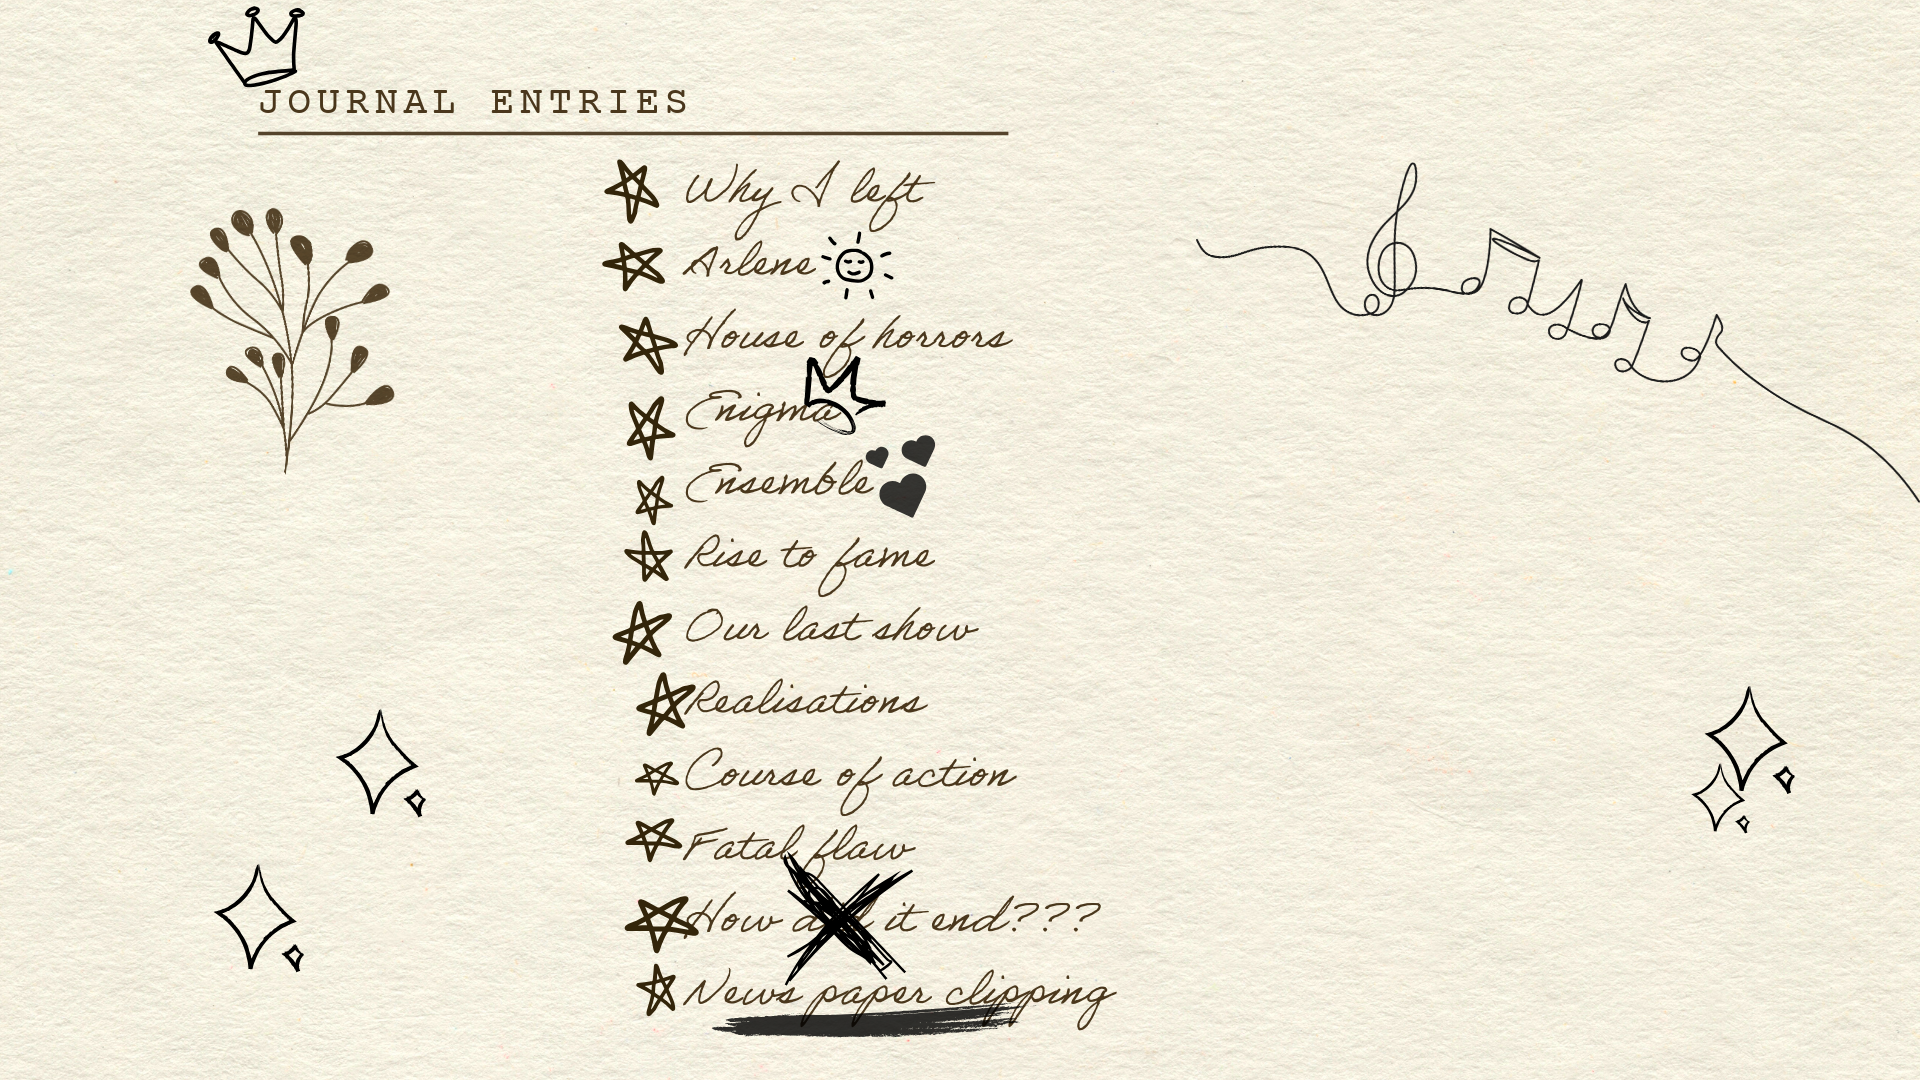
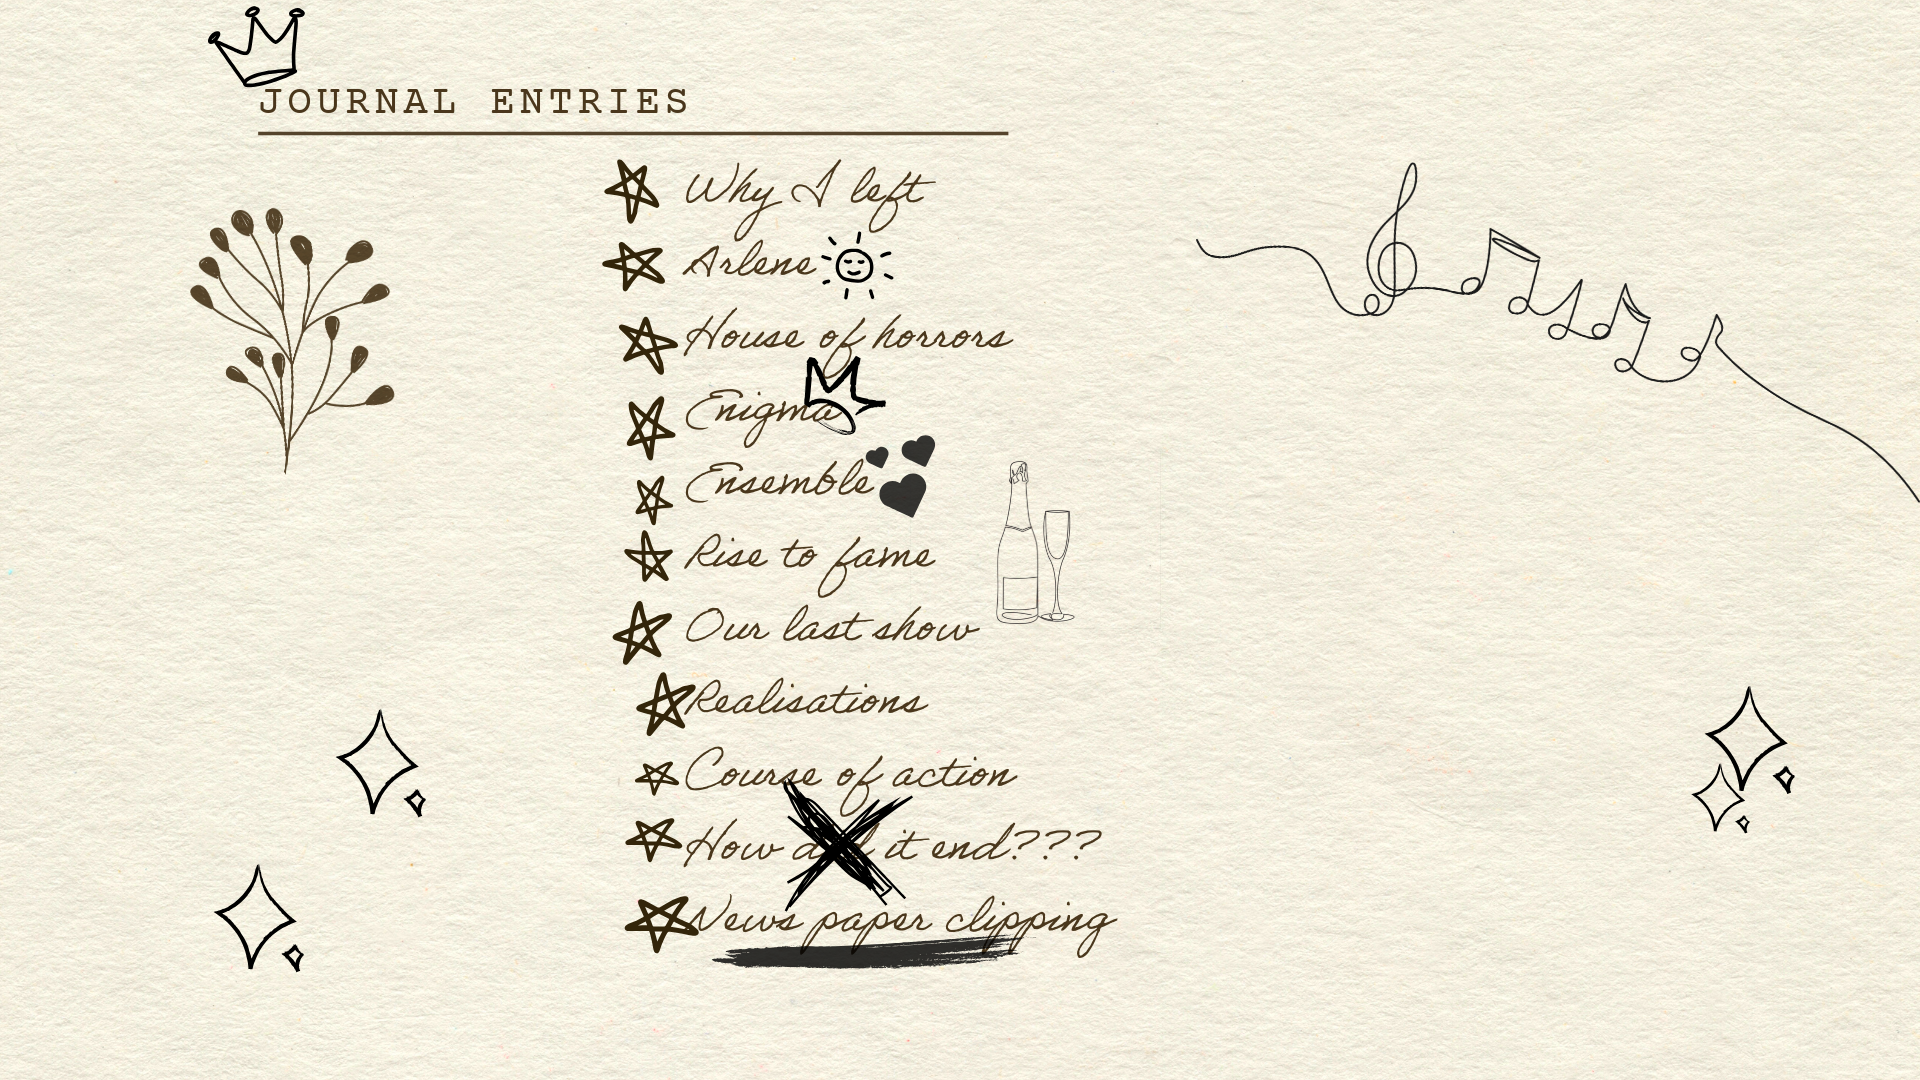
bnb

diff --git a/index.html b/index.html
@@ -503,11 +503,32 @@ tw-hook {
 
 // Harlowe Macro Framework, by Chapel; version 1.0.2
 ;!function(){"use strict";var r={major:1,minor:0,patch:2},e=[r.major,r.minor,r.patch].join(".");r.semantic=e,r=Object.freeze(r);var t=$("tw-storydata"),a=Object.freeze({name:t.attr("name"),ifid:t.attr("ifid")}),n=t.attr("format-version"),o=n.split("."),i=Object.freeze({major:o[0],minor:o[1],patch:o[2],semantic:n});window.Harlowe=window.Harlowe||{},window.Harlowe=Object.assign(window.Harlowe,{framework:r,API_ACCESS:Object.freeze({MACROS:require("macros"),STATE:require("state"),CHANGER:require("datatypes/changercommand"),ENGINE:require("engine")}),engine:i,story:a})}(),function(){"use strict";function e(r){return"number"==typeof r||"boolean"==typeof r||"string"==typeof r||null===r||Array.isArray(r)&&r.every(e)||r instanceof Set&&Array.from(r).every(e)||r instanceof Map&&Array.from(r.values()).every(e)||_changer.isPrototypeOf(r)}window.Harlowe=Object.assign(window.Harlowe,{helpers:{isSerialisable:e,isSerializable:e,arrayify:function(r,e){if(r){var t=[].slice.call(r);return void 0!==e&&(t=t.slice(e)),t}},getPassageData:function(r){var e=$('tw-passagedata[name="'+r+'"]');if(e[0])return e}}})}(),function(){"use strict";var n=window.localStorage||!1,o=Harlowe.story.ifid+"-tw-storage";function r(){try{if(!n)throw new Error("storage is inaccessible");n.setItem(o,JSON.stringify({ifid:Harlowe.story.ifid}))}catch(r){console.warn(r)}}function i(r){try{var e;if(n)return e=JSON.parse(n.getItem(o)),r&&r&&"string"==typeof r?e[r]:e;throw new Error("storage is inaccessible")}catch(r){console.warn(r)}}null==i()&&r(),Harlowe.storage={clear:r,save:function(r,e){try{if(!r||"string"!=typeof r)throw new TypeError("cannot store values without a valid storage key");if(void 0===e)throw new TypeError("cannot store undefined values");var t={};if(t[r]=e,!n)throw new Error("storage is inaccessible");var a=i();Object.assign(a,t),n.setItem(o,JSON.stringify(a))}catch(r){console.warn(r)}},load:i,remove:function(r){try{if(!r||"string"!=typeof r)throw new TypeError("cannot store values without a valid storage key");if(!n)throw new Error("storage is inaccessible");var e=i();e.hasOwnProperty(r)&&(delete e[r],n.setItem(o,JSON.stringify(e)))}catch(r){console.warn(r)}}}}(),function(){"use strict";function a(r,e,t){if(!(this instanceof a))return new a(r,e,t);this.name=r||"unknown",this.args=e||[],this.data=t||{},this.type=t&&t.type||"basic",this.fn=t&&t.fn||"handler","changer"===this.type&&("handler"===this.fn?this.instance=t&&t.instance||null:this.descriptor=t&&t.descriptor||null)}a.create=function(r,e,t){if(!r||"string"!=typeof r||!r.trim())throw new TypeError("Invalid macro name.");return e&&e instanceof Array||(e=[]),t&&"object"==typeof t||(t={type:"basic",fn:"handler"}),new a(r,e,t)},Object.assign(a.prototype,{clone:function(){return a.create(this.name,this.args,this.data)},syntax:function(){return"("+this.name+":)"},error:function(r,e){var t="Error in the "+this.syntax()+" macro: "+r;return e&&alert(t),console.warn("HARLOWE CUSTOM MACRO ERROR -> ",t),new Error(r)},typeCheck:function(r){r&&r instanceof Array||(r=Harlowe.helpers.arrayify(arguments));var n=this,o=[];if(r.forEach(function(r,e){var t=e+1,a=[];"string"==typeof r&&("any"===(a=r.includes("|")?r.split("|").map(function(r){return r.trim().toLowerCase()}):[r.trim().toLowerCase()])[0]||a.some(function(r){return typeof n.args[e]===r})||o.push("argument "+t+" should be a(n) "+a.join(" or ")))}),o.length)return n.error(o.join("; "))}}),window.Harlowe=Object.assign(window.Harlowe,{MacroContext:a})}(),function(){"use strict";var c=Harlowe.API_ACCESS.MACROS,l=Harlowe.API_ACCESS.CHANGER;window.Harlowe=Object.assign(window.Harlowe||{},{macro:function(r,e,t){if(!r||"string"!=typeof r||!r.trim())throw new TypeError("Invalid macro name.");if(!e||"function"!=typeof e)throw new TypeError("Invalid macro handler.");var a,n,o,i,s;t&&"function"==typeof t?(o=r,i=e,s=t,c.addChanger(o,function(){var r=Harlowe.helpers.arrayify(arguments,1),e=l.create(o,r),t=Harlowe.MacroContext.create(o,r,{type:"changer",fn:"handler",instance:e});return i.apply(t,r),e},function(){var r=Harlowe.helpers.arrayify(arguments),e=r.shift(),t=Harlowe.MacroContext.create(o,r,{type:"changer",fn:"changer",descriptor:e});s.apply(t,r)},c.TypeSignature.zeroOrMore(c.TypeSignature.Any))):(a=r,n=e,c.add(a,function(){var r=Harlowe.helpers.arrayify(arguments,1),e=Harlowe.MacroContext.create(a,r,{type:"basic",fn:"handler"}),t=n.apply(e,r);return null==t?"":t},c.TypeSignature.zeroOrMore(c.TypeSignature.Any)))}})}(),function(){"use strict";var t=Harlowe.API_ACCESS.STATE,e=Harlowe.API_ACCESS.ENGINE;function a(){return t.passage}window.Harlowe=Object.assign(window.Harlowe||{},{passage:a,tags:function(r){r=r||a();try{var e=Harlowe.helpers.getPassageData(r).attr("tags");return e?e.split(" "):[]}catch(r){return console.warn(r.message),[]}},goto:function(r){return e.goToPassage(r)},variable:function(r,e){if("$"!==r[0])throw new Error('cannot access variable "'+r+'"');if(r=r.substr(1),void 0!==e){if(!Harlowe.helpers.isSerialisable(e))throw new Error('The value passed to variable "'+r+'" cannot be serialized.');t.variables[r]=e}return t.variables[r]},visited:function(r){return t.passageNameVisited(r||a())},hasVisited:function(r){return 0<t.passageNameVisited(r||a())},turns:function(){return t.pastLength}})}();
-// end Harlowe Macro Framework</script><tw-tag name="background1" color="green"></tw-tag><tw-tag name="background10" color="orange"></tw-tag><tw-tag name="background12" color="orange"></tw-tag><tw-tag name="background13" color="red"></tw-tag><tw-tag name="background14" color="orange"></tw-tag><tw-tag name="background15" color="orange"></tw-tag><tw-tag name="background3" color="orange"></tw-tag><tw-tag name="background2" color="orange"></tw-tag><tw-tag name="background7" color="orange"></tw-tag><tw-tag name="background5" color="orange"></tw-tag><tw-tag name="background6" color="orange"></tw-tag><tw-tag name="needs-picture" color="purple"></tw-tag><tw-tag name="needs-picture-2" color="purple"></tw-tag><tw-tag name="needs-picture-3" color="purple"></tw-tag><tw-tag name="needs-picture-4" color="purple"></tw-tag><tw-tag name="needs-pictures-13" color="purple"></tw-tag><tw-tag name="needs-pictures-14" color="purple"></tw-tag><tw-tag name="background8" color="orange"></tw-tag><tw-tag name="background11" color="orange"></tw-tag><tw-tag name="background16" color="green"></tw-tag><tw-tag name="background17" color="orange"></tw-tag><tw-tag name="background18" color="orange"></tw-tag><tw-tag name="begin" color="green"></tw-tag><tw-tag name="firstpage" color="orange"></tw-tag><tw-tag name="background19" color="orange"></tw-tag><tw-tag name="background20" color="orange"></tw-tag><tw-tag name="background21" color="orange"></tw-tag><tw-tag name="spotlight" color="orange"></tw-tag><tw-tag name="background22" color="orange"></tw-tag><tw-tag name="background23" color="red"></tw-tag><tw-tag name="background24" color="orange"></tw-tag><tw-tag name="background25" color="orange"></tw-tag><tw-tag name="background4" color="orange"></tw-tag><tw-passagedata pid="1" name="back to entries" tags="background4 imagemap" position="600,300" size="100,100">
+// end Harlowe Macro Framework</script><tw-tag name="background1" color="green"></tw-tag><tw-tag name="background10" color="orange"></tw-tag><tw-tag name="background12" color="orange"></tw-tag><tw-tag name="background13" color="red"></tw-tag><tw-tag name="background14" color="orange"></tw-tag><tw-tag name="background15" color="orange"></tw-tag><tw-tag name="background3" color="orange"></tw-tag><tw-tag name="background2" color="orange"></tw-tag><tw-tag name="background7" color="orange"></tw-tag><tw-tag name="background5" color="orange"></tw-tag><tw-tag name="background6" color="orange"></tw-tag><tw-tag name="needs-picture" color="purple"></tw-tag><tw-tag name="needs-picture-2" color="purple"></tw-tag><tw-tag name="needs-picture-3" color="purple"></tw-tag><tw-tag name="needs-picture-4" color="purple"></tw-tag><tw-tag name="needs-pictures-13" color="purple"></tw-tag><tw-tag name="needs-pictures-14" color="purple"></tw-tag><tw-tag name="background8" color="orange"></tw-tag><tw-tag name="background11" color="orange"></tw-tag><tw-tag name="background16" color="green"></tw-tag><tw-tag name="background17" color="orange"></tw-tag><tw-tag name="background18" color="orange"></tw-tag><tw-tag name="begin" color="green"></tw-tag><tw-tag name="firstpage" color="orange"></tw-tag><tw-tag name="background19" color="orange"></tw-tag><tw-tag name="background20" color="orange"></tw-tag><tw-tag name="background21" color="orange"></tw-tag><tw-tag name="spotlight" color="orange"></tw-tag><tw-tag name="background22" color="orange"></tw-tag><tw-tag name="background23" color="red"></tw-tag><tw-tag name="background24" color="orange"></tw-tag><tw-tag name="background25" color="orange"></tw-tag><tw-tag name="background4" color="orange"></tw-tag><tw-passagedata pid="1" name="back to entries" tags="background4 imagemap" position="600,300" size="100,100">&lt;!-- Image Map Generated by http://www.image-map.net/ --&gt;
+&lt;img src=&quot;./images/entries.jpg&quot; usemap=&quot;#image-map&quot;&gt;
 
+&lt;map name=&quot;image-map&quot;&gt;
+    &lt;area target=&quot;&quot; alt=&quot;Why I left&quot; title=&quot;Why I left&quot; href=&quot;&quot; coords=&quot;668,147,985,231&quot; shape=&quot;rect&quot;&gt;
+    &lt;area target=&quot;&quot; alt=&quot;Arlene&quot; title=&quot;Arlene&quot; href=&quot;&quot; coords=&quot;675,245,802,243,868,247,906,257,902,289,872,306,823,299,740,291,667,291&quot; shape=&quot;poly&quot;&gt;
+    &lt;area target=&quot;&quot; alt=&quot;House of horrors&quot; title=&quot;House of horrors&quot; href=&quot;&quot; coords=&quot;682,313,1031,352&quot; shape=&quot;rect&quot;&gt;
+    &lt;area target=&quot;&quot; alt=&quot;Enigma&quot; title=&quot;Enigma&quot; href=&quot;&quot; coords=&quot;677,370,868,447&quot; shape=&quot;rect&quot;&gt;
+    &lt;area target=&quot;&quot; alt=&quot;Ensemble&quot; title=&quot;Ensemble&quot; href=&quot;&quot; coords=&quot;667,457,952,516&quot; shape=&quot;rect&quot;&gt;
+    &lt;area target=&quot;&quot; alt=&quot;Rise to fame&quot; title=&quot;Rise to fame&quot; href=&quot;&quot; coords=&quot;673,530,957,593&quot; shape=&quot;rect&quot;&gt;
+    &lt;area target=&quot;&quot; alt=&quot;Our last show&quot; title=&quot;Our last show&quot; href=&quot;&quot; coords=&quot;673,601,984,660&quot; shape=&quot;rect&quot;&gt;
+    &lt;area target=&quot;&quot; alt=&quot;Realisations&quot; title=&quot;Realisations&quot; href=&quot;&quot; coords=&quot;680,671,941,725&quot; shape=&quot;rect&quot;&gt;
+    &lt;area target=&quot;&quot; alt=&quot;Course of action&quot; title=&quot;Course of action&quot; href=&quot;&quot; coords=&quot;677,745,1021,742,1021,794,968,796,929,796,857,791,823,793,748,794,677,798&quot; shape=&quot;poly&quot;&gt;
+    &lt;area target=&quot;&quot; alt=&quot;How did it end???&quot; title=&quot;How did it end???&quot; href=&quot;&quot; coords=&quot;678,811,1119,877&quot; shape=&quot;rect&quot;&gt;
+    &lt;area target=&quot;&quot; alt=&quot;News paper clipping&quot; title=&quot;News paper clipping&quot; href=&quot;&quot; coords=&quot;687,896,1125,977&quot; shape=&quot;rect&quot;&gt;
+&lt;/map&gt;
 
+&lt;script&gt;
+ $(&#39;area&#39;).on(&#39;click&#39;, function(e){
+   e.preventDefault();
+   Harlowe.goto(this.alt);
+ });
+ $(&#39;map&#39;).imageMapResize();
+&lt;/script&gt;
 
-
+&lt;div style=&quot;display:none;&quot;
 [[Why I left]]
 [[Arlene]]
 [[House of horrors]]
@@ -519,8 +540,7 @@ tw-hook {
 [[Course of action]]
 [[How did it end???]]
 [[News paper clipping]]
-
-[[Untitled Passage]] 
+&lt;/div&gt;
 
 
 
